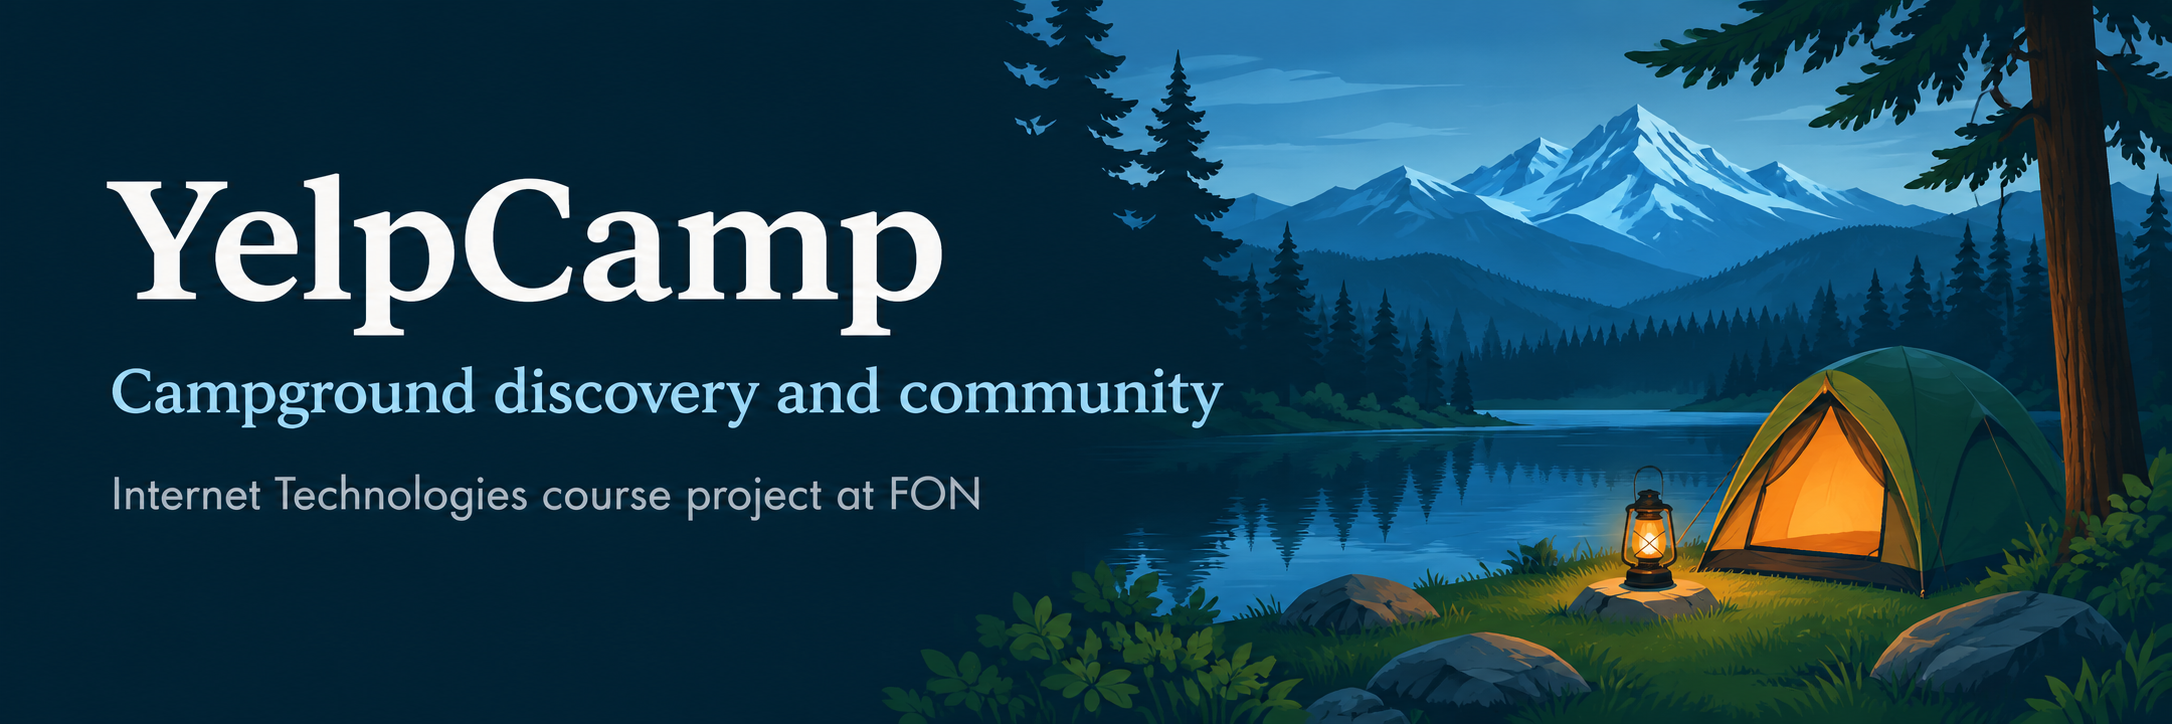
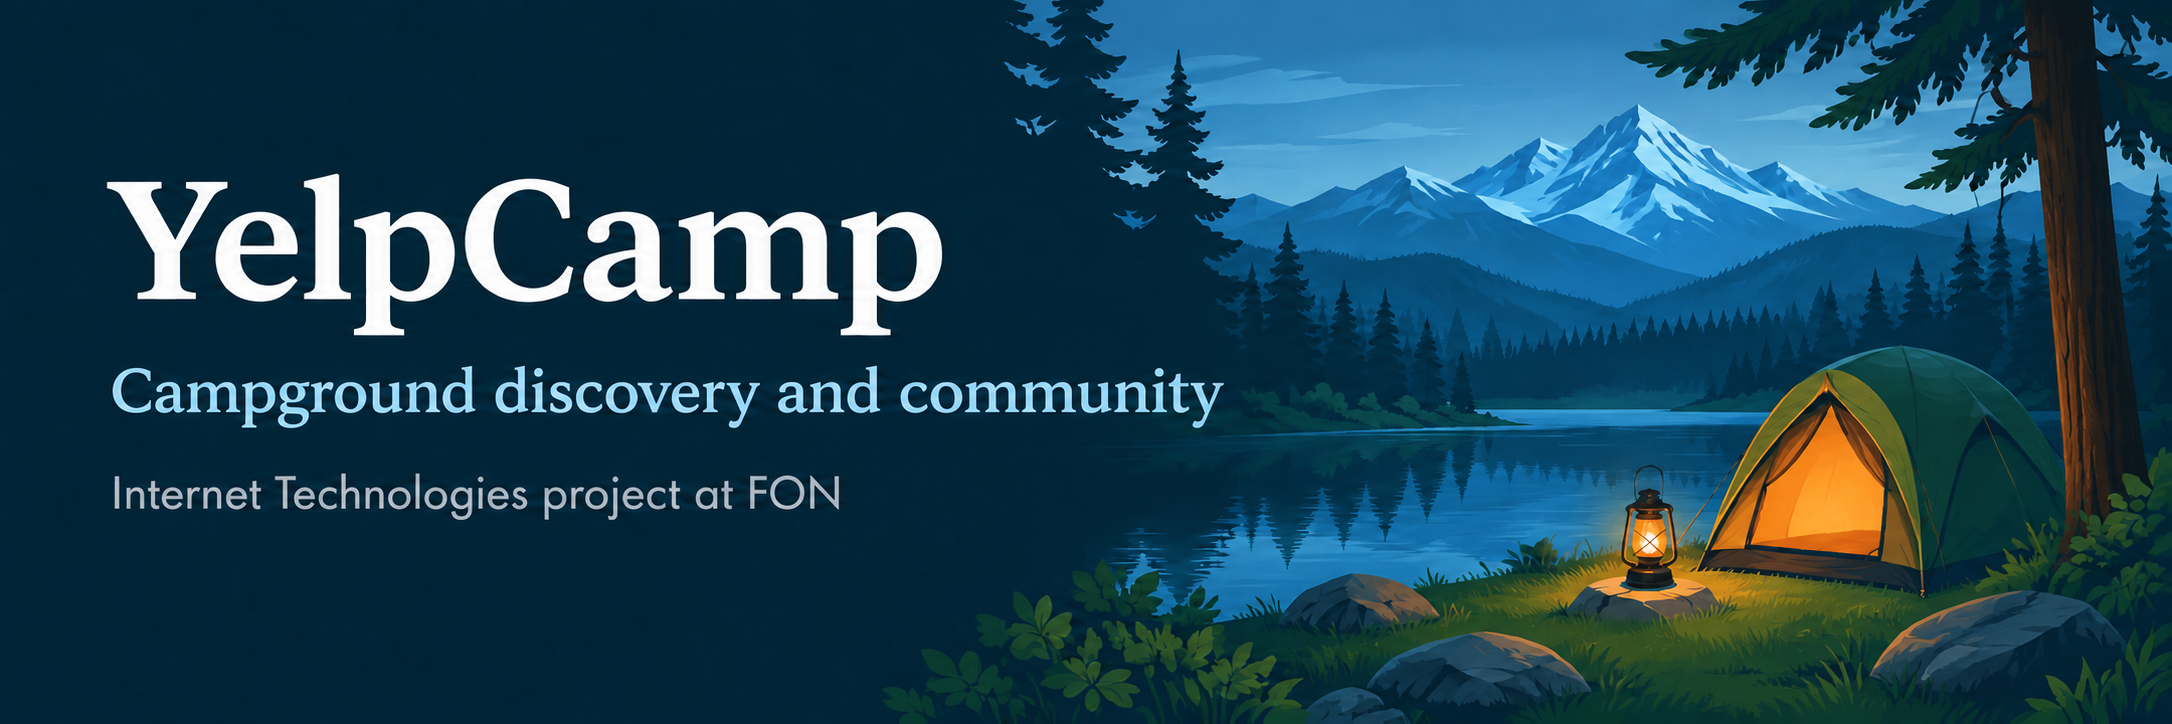
Clarify FON project wording and local preview status

diff --git a/README.md b/README.md
@@ -1,4 +1,4 @@
-![YelpCamp, an Internet Technologies course project at FON](docs/banner.png)
+![YelpCamp, an Internet Technologies project at FON](docs/banner.png)
 
 # YelpCamp
 
@@ -10,7 +10,7 @@ publish listings, discuss them in comments, and manage their own contributions.
 
 ## Academic context
 
-Originally developed as a course project for **Internet Technologies at FON**.
+Originally developed as an **Internet Technologies project at FON**.
 The application combines server rendered pages, a MongoDB database, account
 authentication and web application development fundamentals.
 
@@ -123,7 +123,9 @@ and send valid form tokens. Logout uses `POST /logout`. Database collection name
 and the existing author references remain compatible with the original app.
 Back up an existing database before upgrading its MongoDB server.
 
-The previously listed hosted demo has not been verified and is omitted here.
+The application has been run locally for verification. The README screenshot
+shows a local test instance with demonstration listings. This is not a public
+deployment. The previously listed hosted demo has not been verified.
 
 ## Structure
 
